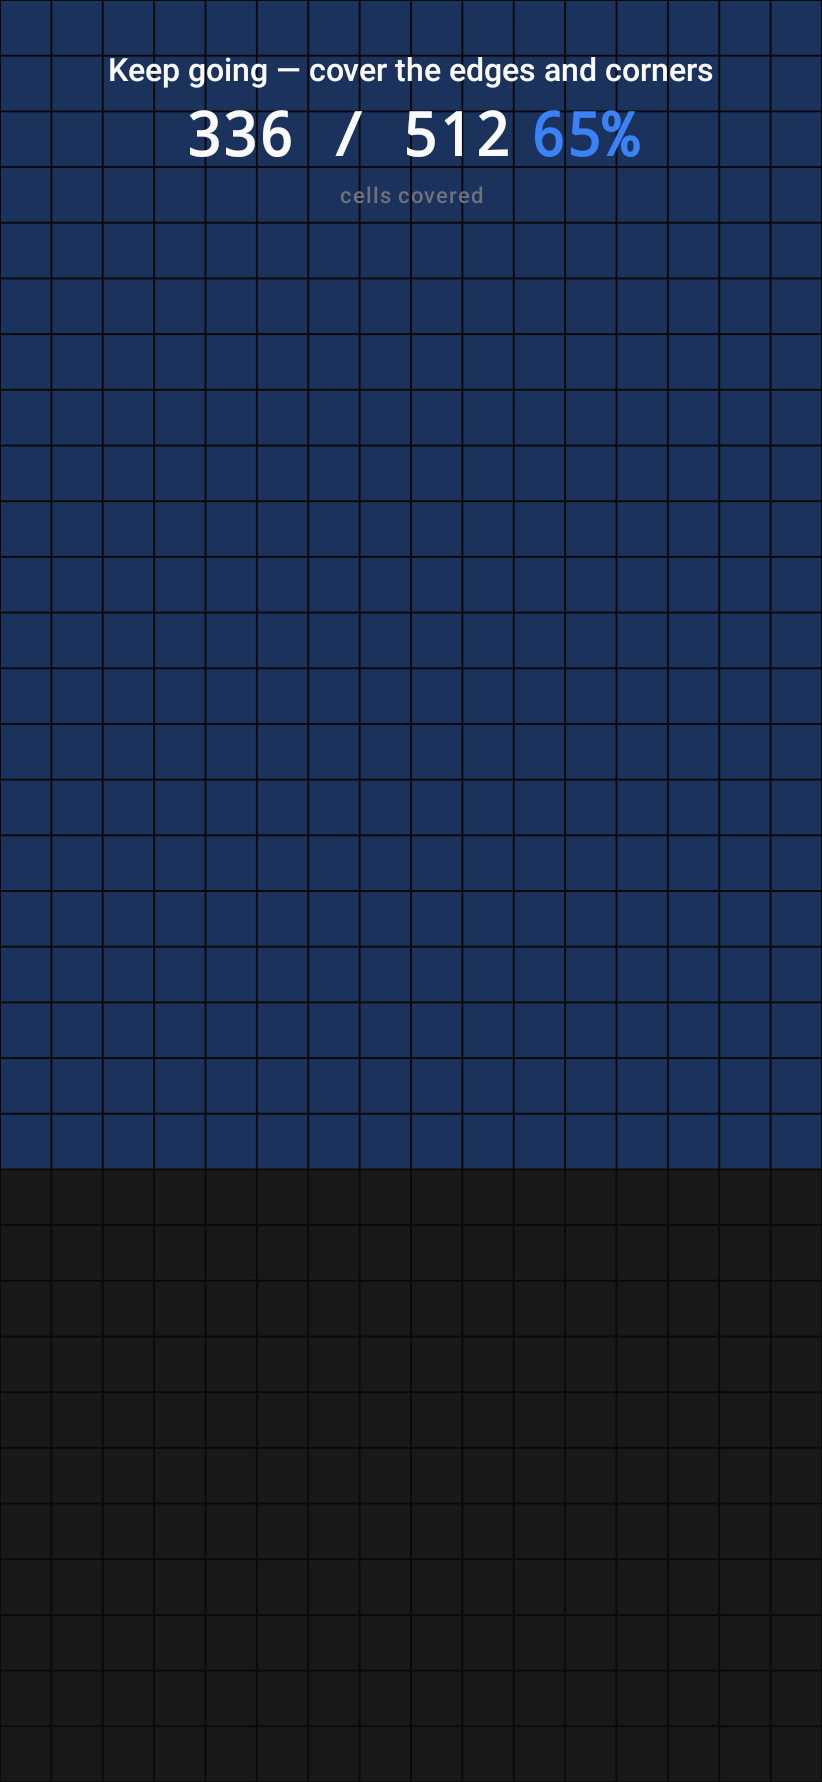
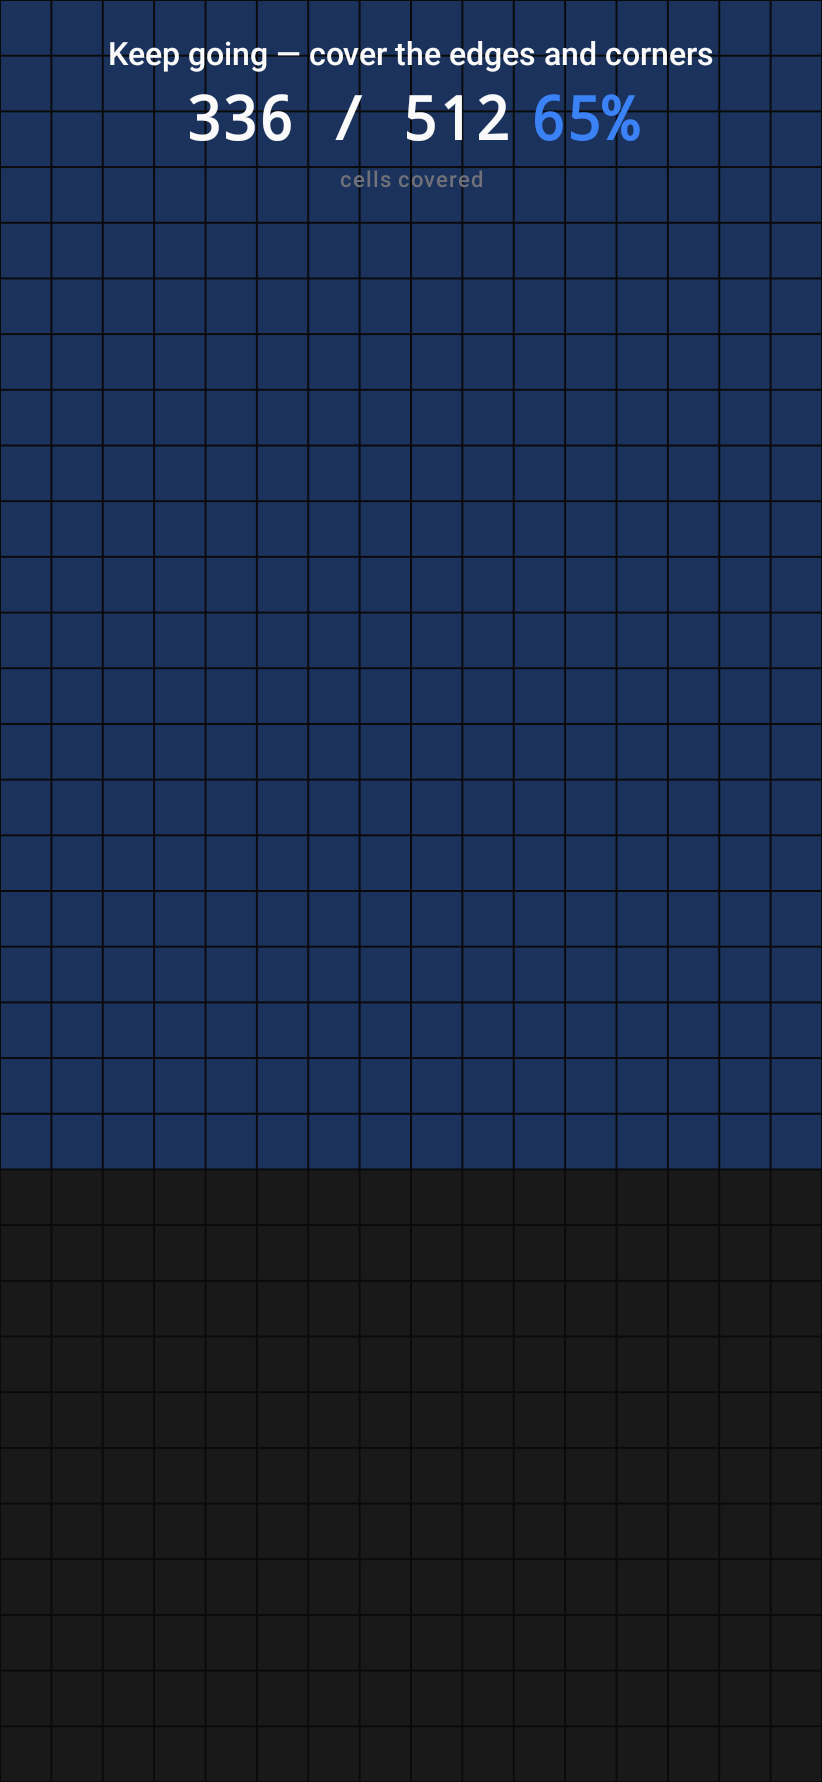
Fix window insets, and stop reporting a clean phone as unreadable
Three bugs found by installing on two real handsets. All three were invisible
to 86 passing tests and 13 reviewed screenshots, which is worth recording.

Insets. MainActivity calls enableEdgeToEdge, and no screen consumed insets, so
content drew underneath the system bars: the app title collided with the clock
and the bottom button row sat on top of the navigation keys. Every screen root
now applies WindowInsets.safeDrawing — chosen over statusBars because it also
covers the navigation bar, gesture areas and display cutouts, so it holds on a
notch phone and a 3-button phone without being tuned to either. The touch
canvas is the one deliberate exception and stays full-bleed: the test has to
reach the true physical edges, and insetting it would leave the strips under
the system bars untestable, which is exactly where dead zones tend to be.

The clean-phone bug is the serious one. DevicePolicyManager.getActiveAdmins()
returns null when there are no administrators — not an empty list. That null
was read as "the query failed", so a healthy realme on Android 16 reported
CAN'T TELL rather than PASS. The least useful answer the app can give someone
holding cash, on the most common device state there is. DeviceAdminSnapshot.from
now holds the null-versus-empty distinction in one tested place, with four tests
pinning it down.

Every interesting outcome had a screenshot — device owner, profile owner,
caution, can't-tell — and the boring case of a normal phone with nothing wrong
[…]

Changed region(s): [[0.1217, 0.0, 0.882, 0.1235]]

diff --git a/core/device/src/main/kotlin/com/phoneproof/core/device/DeviceAdminInspector.kt b/core/device/src/main/kotlin/com/phoneproof/core/device/DeviceAdminInspector.kt
@@ -1,6 +1,7 @@
 package com.phoneproof.core.device
 
 import android.app.admin.DevicePolicyManager
+import android.content.ComponentName
 import android.content.Context
 import android.content.pm.PackageManager
 import com.phoneproof.checks.emilock.AdminApp
@@ -10,10 +11,14 @@ import com.phoneproof.core.diagnostics.DiagnosticsRecorder
 /**
  * Asks the platform which apps hold administrative control over this device.
  *
- * Every call is defensive. OEM builds differ in what they expose here, and a phone that has been
- * tampered with is exactly the phone most likely to behave oddly — which is also exactly the phone
- * this check matters most on. A thrown exception must never look like a clean result, so any failure
- * produces `queryFailed = true` and the check reports "can't tell" rather than "nothing found".
+ * Every call is defensive. OEM builds differ in what they expose, and a phone that has been tampered
+ * with is exactly the phone most likely to behave oddly — which is also the phone this check matters
+ * most on. A thrown exception must never look like a clean result.
+ *
+ * The critical subtlety, learned from a real device rather than from the documentation:
+ * [DevicePolicyManager.getActiveAdmins] returns **null when there are no active administrators**.
+ * That is a clean phone, not a failed query. Conflating the two made a healthy handset report
+ * "can't tell", which is the single most useless thing this check could say to someone holding cash.
  */
 class DeviceAdminInspector(
     private val context: Context,
@@ -30,16 +35,24 @@ class DeviceAdminInspector(
             return DeviceAdminSnapshot(queryFailed = true)
         }
 
-        val active = runCatching { dpm.activeAdmins }
-            .onFailure { diagnostics?.error(TAG, "activeAdmins threw", it) }
-            .getOrNull()
-
-        if (active == null) {
+        val query = runCatching { dpm.activeAdmins }
+        if (query.isFailure) {
+            diagnostics?.error(TAG, "activeAdmins threw", query.exceptionOrNull())
             return DeviceAdminSnapshot(queryFailed = true)
         }
 
+        // null here means "none registered", not "could not ask".
+        val components: List<ComponentName> = query.getOrNull() ?: emptyList()
+
+        if (components.isEmpty()) {
+            // Logged explicitly: this is the most common real-world outcome, and when it was silent
+            // the diagnostics report came back with a single startup line and no explanation at all.
+            diagnostics?.info(TAG, "no device admins registered — clean")
+            return DeviceAdminSnapshot.from(emptyList())
+        }
+
         val packageManager = context.packageManager
-        val admins = active
+        val admins = components
             .map { it.packageName }
             .distinct()
             .map { packageName ->
@@ -53,16 +66,20 @@ class DeviceAdminInspector(
                 )
             }
 
-        diagnostics?.info(TAG, "found ${admins.size} device admin(s)")
-        return DeviceAdminSnapshot(admins = admins)
+        diagnostics?.info(
+            TAG,
+            "found ${admins.size} device admin(s): " + admins.joinToString { it.packageName },
+        )
+        return DeviceAdminSnapshot.from(admins)
     }
 
     /**
      * Returns null rather than a guess when the label cannot be read.
      *
-     * On Android 11+ an app cannot see another package's details without declaring visibility for
-     * it, so this legitimately fails most of the time. The evaluator falls back to showing the
-     * package name, which is less friendly but true.
+     * The app declares a `<queries>` entry for `DEVICE_ADMIN_ENABLED` so administrator apps are
+     * visible to it, which is what turns `com.microsoft.office.outlook` into `Outlook` on screen.
+     * Without that, Android 11+ package-visibility rules hide the details and the raw package id is
+     * all a buyer sees.
      */
     private fun resolveLabel(packageManager: PackageManager, packageName: String): String? =
         runCatching {
@@ -70,6 +87,8 @@ class DeviceAdminInspector(
                 .loadLabel(packageManager)
                 .toString()
                 .takeIf { it.isNotBlank() && it != packageName }
+        }.onFailure {
+            diagnostics?.info(TAG, "label not visible for $packageName")
         }.getOrNull()
 
     private companion object {

diff --git a/checks/emilock/src/test/kotlin/com/phoneproof/checks/emilock/EmiLockEvaluatorTest.kt b/checks/emilock/src/test/kotlin/com/phoneproof/checks/emilock/EmiLockEvaluatorTest.kt
@@ -128,4 +128,42 @@ class EmiLockEvaluatorTest {
     fun `a blank package name is rejected outright`() {
         assertThat(runCatching { AdminApp("  ") }.isFailure).isTrue()
     }
+
+    // --- The null-versus-empty distinction, which a real device got wrong. ---
+    //
+    // DevicePolicyManager.getActiveAdmins() returns null when there are no administrators. That
+    // null was being read as "the query failed", so a clean phone reported "can't tell" instead of
+    // passing — the least useful possible answer for someone standing there with cash. These tests
+    // pin the semantics down so it cannot drift back.
+
+    @Test
+    fun `an empty list means the platform answered and found nothing - that is a pass`() {
+        val snapshot = DeviceAdminSnapshot.from(emptyList())
+        assertThat(snapshot.queryFailed).isFalse()
+        assertThat(EmiLockEvaluator.evaluate(snapshot).outcome).isEqualTo(CheckOutcome.PASS)
+    }
+
+    @Test
+    fun `null means the platform could not be asked - that is CAN'T TELL`() {
+        val snapshot = DeviceAdminSnapshot.from(null)
+        assertThat(snapshot.queryFailed).isTrue()
+        assertThat(EmiLockEvaluator.evaluate(snapshot).outcome).isEqualTo(CheckOutcome.UNKNOWN)
+    }
+
+    @Test
+    fun `a populated list is carried through unchanged`() {
+        val admins = listOf(admin("com.a", "A"), admin("com.b", deviceOwner = true))
+        val snapshot = DeviceAdminSnapshot.from(admins)
+        assertThat(snapshot.queryFailed).isFalse()
+        assertThat(snapshot.admins).isEqualTo(admins)
+        assertThat(EmiLockEvaluator.evaluate(snapshot).outcome).isEqualTo(CheckOutcome.FAIL)
+    }
+
+    @Test
+    fun `empty and null produce genuinely different outcomes`() {
+        // The whole point: these two must never collapse into the same answer.
+        val fromEmpty = EmiLockEvaluator.evaluate(DeviceAdminSnapshot.from(emptyList())).outcome
+        val fromNull = EmiLockEvaluator.evaluate(DeviceAdminSnapshot.from(null)).outcome
+        assertThat(fromEmpty).isNotEqualTo(fromNull)
+    }
 }

diff --git a/feature/touchgrid/src/main/kotlin/com/phoneproof/feature/touchgrid/TouchGridScreen.kt b/feature/touchgrid/src/main/kotlin/com/phoneproof/feature/touchgrid/TouchGridScreen.kt
@@ -13,6 +13,9 @@ import androidx.compose.foundation.layout.fillMaxSize
 import androidx.compose.foundation.layout.fillMaxWidth
 import androidx.compose.foundation.layout.height
 import androidx.compose.foundation.layout.padding
+import androidx.compose.foundation.layout.safeDrawing
+import androidx.compose.foundation.layout.windowInsetsPadding
+import androidx.compose.foundation.layout.WindowInsets
 import androidx.compose.material3.Button
 import androidx.compose.material3.ButtonDefaults
 import androidx.compose.material3.MaterialTheme
@@ -99,7 +102,12 @@ private fun TestingLayout(
         Column(
             modifier = Modifier
                 .align(Alignment.TopCenter)
-                .padding(horizontal = 20.dp, vertical = 24.dp),
+                // Only the overlay is inset. The canvas above deliberately keeps no inset at all,
+                // because the test has to reach the true physical edges of the screen — insetting
+                // it would leave the strips under the status and navigation bars untestable, and
+                // those edges are where dead touch zones usually are.
+                .windowInsetsPadding(WindowInsets.safeDrawing)
+                .padding(horizontal = 20.dp, vertical = 16.dp),
             horizontalAlignment = Alignment.CenterHorizontally,
             verticalArrangement = Arrangement.spacedBy(10.dp),
         ) {
@@ -134,7 +142,10 @@ private fun FinishedLayout(
     Column(
         modifier = modifier
             .fillMaxSize()
-            .background(PhoneProofColors.Background),
+            .background(PhoneProofColors.Background)
+            // Safe to inset the whole thing here: once the test is over the grid is a map of what
+            // was found, not a surface anyone is still touching.
+            .windowInsetsPadding(WindowInsets.safeDrawing),
     ) {
         Box(
             modifier = Modifier

diff --git a/checks/emilock/src/main/kotlin/com/phoneproof/checks/emilock/DeviceAdminSnapshot.kt b/checks/emilock/src/main/kotlin/com/phoneproof/checks/emilock/DeviceAdminSnapshot.kt
@@ -33,6 +33,25 @@ data class DeviceAdminSnapshot(
     val admins: List<AdminApp> = emptyList(),
     val queryFailed: Boolean = false,
 ) {
+    companion object {
+        /**
+         * Builds a snapshot from a platform result where **null means the call failed** and an
+         * empty list means the platform answered and found nothing.
+         *
+         * This distinction exists as its own named function because getting it backwards is
+         * exactly what happened on a real device: `DevicePolicyManager.getActiveAdmins()` returns
+         * null when there are no administrators, that null was treated as a failed query, and a
+         * perfectly clean phone reported "can't tell" instead of passing. A user checking a phone
+         * they were about to buy got no answer at all.
+         */
+        fun from(admins: List<AdminApp>?): DeviceAdminSnapshot =
+            if (admins == null) {
+                DeviceAdminSnapshot(queryFailed = true)
+            } else {
+                DeviceAdminSnapshot(admins = admins)
+            }
+    }
+
     val deviceOwners: List<AdminApp> get() = admins.filter { it.isDeviceOwner }
     val profileOwners: List<AdminApp> get() = admins.filter { it.isProfileOwner }
 

diff --git a/feature/home/src/main/kotlin/com/phoneproof/feature/home/HomeScreen.kt b/feature/home/src/main/kotlin/com/phoneproof/feature/home/HomeScreen.kt
@@ -11,6 +11,9 @@ import androidx.compose.foundation.layout.fillMaxSize
 import androidx.compose.foundation.layout.fillMaxWidth
 import androidx.compose.foundation.layout.height
 import androidx.compose.foundation.layout.padding
+import androidx.compose.foundation.layout.safeDrawing
+import androidx.compose.foundation.layout.windowInsetsPadding
+import androidx.compose.foundation.layout.WindowInsets
 import androidx.compose.foundation.shape.RoundedCornerShape
 import androidx.compose.material3.Button
 import androidx.compose.material3.ButtonDefaults
@@ -43,6 +46,10 @@ fun HomeScreen(
         modifier = modifier
             .fillMaxSize()
             .background(PhoneProofColors.Background)
+            // safeDrawing, not statusBars: it also covers the navigation bar, gesture areas and
+            // display cutouts, so this holds on a notch phone and a 3-button phone alike rather
+            // than being tuned to one handset.
+            .windowInsetsPadding(WindowInsets.safeDrawing)
             .padding(20.dp),
         verticalArrangement = Arrangement.spacedBy(14.dp),
     ) {

diff --git a/feature/diagnostics/src/main/kotlin/com/phoneproof/feature/diagnostics/DiagnosticsScreen.kt b/feature/diagnostics/src/main/kotlin/com/phoneproof/feature/diagnostics/DiagnosticsScreen.kt
@@ -9,6 +9,9 @@ import androidx.compose.foundation.layout.fillMaxSize
 import androidx.compose.foundation.layout.fillMaxWidth
 import androidx.compose.foundation.layout.height
 import androidx.compose.foundation.layout.padding
+import androidx.compose.foundation.layout.safeDrawing
+import androidx.compose.foundation.layout.windowInsetsPadding
+import androidx.compose.foundation.layout.WindowInsets
 import androidx.compose.foundation.lazy.LazyColumn
 import androidx.compose.foundation.lazy.items
 import androidx.compose.foundation.shape.RoundedCornerShape
@@ -52,6 +55,8 @@ fun DiagnosticsScreen(
         modifier = modifier
             .fillMaxSize()
             .background(PhoneProofColors.Background)
+            // Without this the Copy / Share / Clear row sat on top of the navigation bar.
+            .windowInsetsPadding(WindowInsets.safeDrawing)
             .padding(16.dp),
         verticalArrangement = Arrangement.spacedBy(12.dp),
     ) {

diff --git a/feature/emilock/src/main/kotlin/com/phoneproof/feature/emilock/EmiLockScreen.kt b/feature/emilock/src/main/kotlin/com/phoneproof/feature/emilock/EmiLockScreen.kt
@@ -7,6 +7,9 @@ import androidx.compose.foundation.layout.fillMaxSize
 import androidx.compose.foundation.layout.fillMaxWidth
 import androidx.compose.foundation.layout.height
 import androidx.compose.foundation.layout.padding
+import androidx.compose.foundation.layout.safeDrawing
+import androidx.compose.foundation.layout.windowInsetsPadding
+import androidx.compose.foundation.layout.WindowInsets
 import androidx.compose.material3.MaterialTheme
 import androidx.compose.material3.OutlinedButton
 import androidx.compose.material3.Text
@@ -33,6 +36,7 @@ fun EmiLockScreen(
         modifier = modifier
             .fillMaxSize()
             .background(PhoneProofColors.Background)
+            .windowInsetsPadding(WindowInsets.safeDrawing)
             .padding(16.dp),
         verticalArrangement = Arrangement.spacedBy(14.dp),
     ) {

diff --git a/.kiro/steering/play-policy.md b/.kiro/steering/play-policy.md
@@ -12,14 +12,38 @@ verified restriction, not a guess.
 | Battery cycle count | ✅ **Public** from Android 14. Survives a factory reset because it lives in the fuel gauge. Use it. |
 | Hours used / hours charged | **Impossible.** A factory reset wipes usage history, and we require the seller to reset in front of the buyer. |
 | OEM-unlocking toggle state, carrier lock | Not readable. Coach the user. |
-| Device Owner / Device Admin present | ✅ Readable via `DevicePolicyManager`. This is how India's EMI-finance locks work, so it is the highest-value automated check in the app. |
+| Device Owner / Device Admin present | ✅ Readable via `DevicePolicyManager`. This is how India's EMI-finance locks work, so it is the highest-value automated check in the app. **See the null trap below.** |
+| Name of an admin app | ⚠ Needs a `<queries>` entry for `DEVICE_ADMIN_ENABLED`, otherwise Android 11+ package visibility hides it and only the raw package id is available. Never use `QUERY_ALL_PACKAGES` for this. |
 | `Build.VERSION.SECURITY_PATCH` | ✅ Readable. Answers "is this phone still getting updates" with a hard fact. |
+
+## Platform traps found on real devices
+
+### `getActiveAdmins()` returns null when there are none
+
+Not an empty list — **null**. Treating that null as "the query failed" made a perfectly clean
+realme handset on Android 16 report `CAN'T TELL` instead of `PASS`, which is the least useful
+answer this app can give someone holding cash.
+
+The general rule this stands for: **when reading anything from the platform, work out what its
+"nothing found" value is before deciding what counts as a failure.** A null, an empty list, `-1`,
+and `0` all mean different things depending on the API, and conflating "absent" with "unreadable"
+turns a good result into a shrug. `DeviceAdminSnapshot.from` exists purely to hold that distinction
+in one tested place.
+
+### Verify against a device that is *healthy*
+
+Every screenshot test covered the interesting outcomes — device owner, profile owner, caution,
+can't-tell — and the bug above still shipped, because the boring case of *a normal phone with
+nothing wrong* was only ever constructed by hand and never actually read from a platform. The most
+common real-world state deserves a real-world check.
 
 ## Permissions
 
 - SMS and Call Log permission groups are limited to apps registered as the **default SMS, Phone
   or Assistant handler**. We are none of those, so never request them.
-- `QUERY_ALL_PACKAGES` is treated as sensitive and invites review scrutiny. Use `<queries>`.
+- `QUERY_ALL_PACKAGES` is treated as sensitive and invites review scrutiny. Use a narrowly scoped
+  `<queries>` element instead — the app resolves admin app names through an `<intent>` filter for
+  `android.app.action.DEVICE_ADMIN_ENABLED`.
 
 ## Content and claims
 

diff --git a/.kiro/steering/design-system.md b/.kiro/steering/design-system.md
@@ -67,6 +67,31 @@ This is not a style preference. The app measures battery discharge under a load 
 A perpetually animating background is an uncontrolled load and **would corrupt the measurement**.
 An infinite animation is a correctness bug in this codebase.
 
+## Window insets — every screen, every time
+
+`MainActivity` calls `enableEdgeToEdge()`, so **nothing is inset for you**. A screen that does not
+consume insets draws its content underneath the status bar and the navigation bar. That shipped
+once: the app title collided with the clock, and the bottom row of buttons sat on top of the
+navigation keys.
+
+Every screen root applies:
+
+```kotlin
+Modifier.windowInsetsPadding(WindowInsets.safeDrawing)
+```
+
+`safeDrawing` rather than `statusBars`, because it also covers the navigation bar, gesture areas
+and display cutouts — so it holds on a notch phone, a punch-hole phone and a 3-button phone
+without being tuned to any one handset.
+
+**The one deliberate exception:** the touch-coverage canvas takes *no* inset. The test must reach
+the true physical edges of the screen, and insetting it would leave the strips beneath the system
+bars untestable — which is exactly where dead touch zones tend to be. Only the overlay on top of
+that canvas is inset.
+
+⚠ Robolectric reports no system bars, so **inset behaviour cannot be verified by screenshot
+test.** It has to be checked on a device. Do not claim an inset fix is verified from a render.
+
 ## Screen-level notes
 
 - **Home** — not a dashboard. One 72 dp primary action. Privacy line beneath it.
